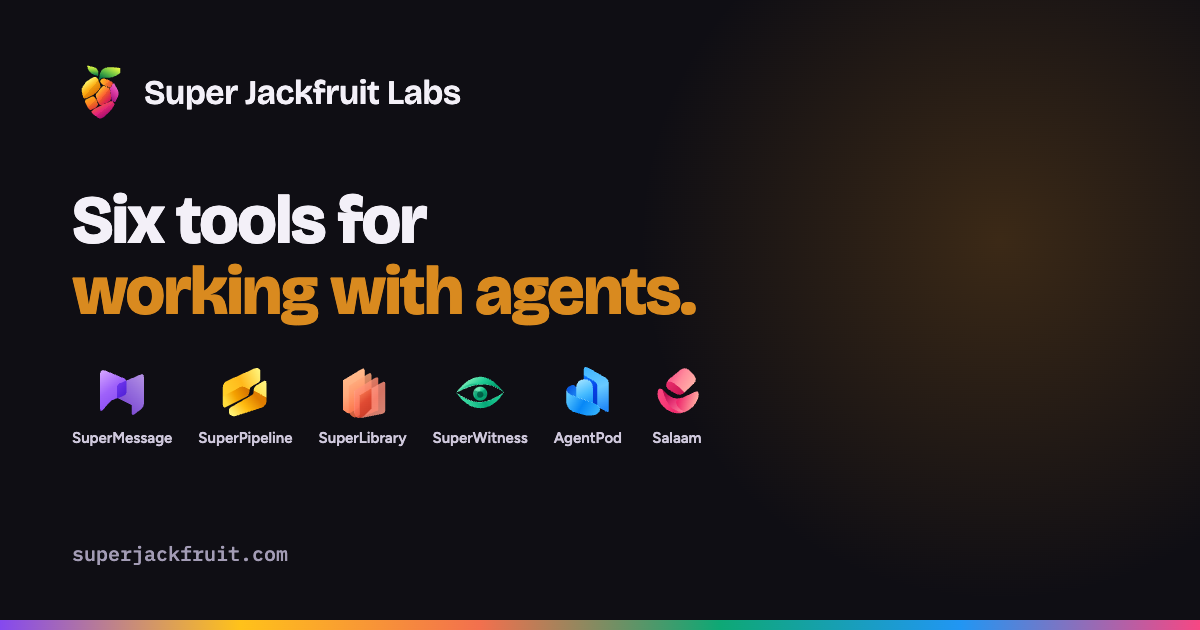
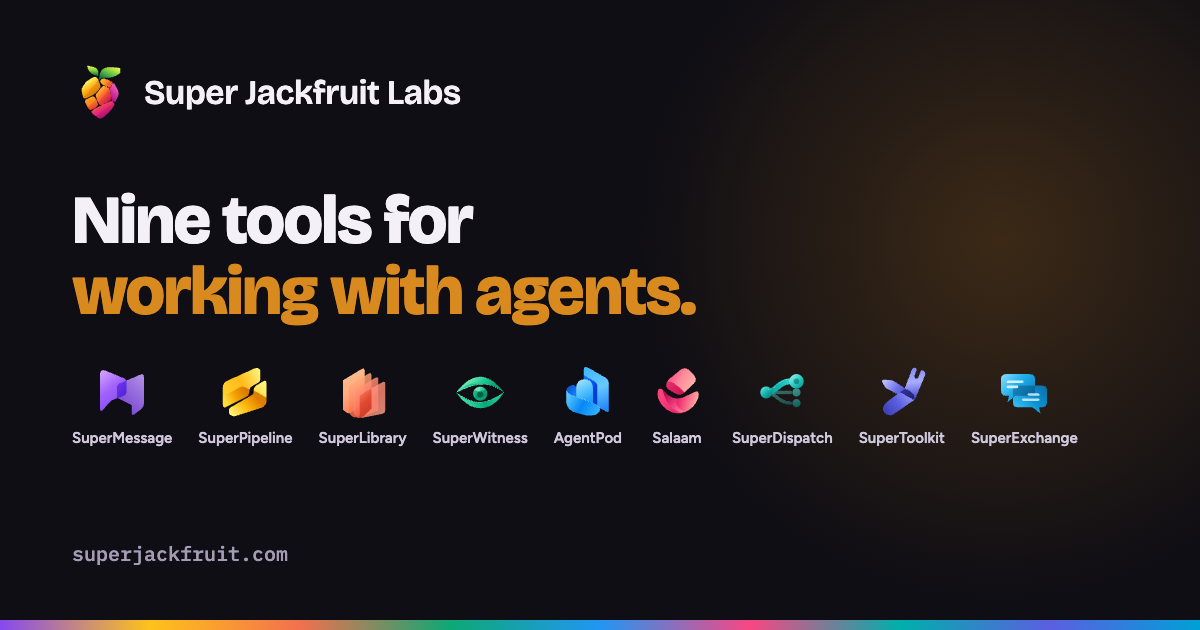
copy: nine tools, SuperToolkit in llms.txt and the redirects, and the nine-tool share card
Claude-Session: https://claude.ai/code/session_017y1PuoCFjP31uXyhLB6Hnr

diff --git a/src/data/projects.ts b/src/data/projects.ts
@@ -32,7 +32,7 @@ export interface District {
 }
 
 export const districts: District[] = [
-  { id: 'agent-works', name: 'The Suite', blurb: 'eight tools, one task from ask to proof', accent: '#d98a1f' },
+  { id: 'agent-works', name: 'The Suite', blurb: 'nine tools, one task from ask to proof', accent: '#d98a1f' },
   { id: 'mcp-alley', name: 'MCP Alley', blurb: 'wiring AI into everything', accent: '#f2a707' },
   { id: 'odd-shop', name: 'The Odd Shop', blurb: 'no refunds on curiosity', accent: '#a12cf9' },
 ];
